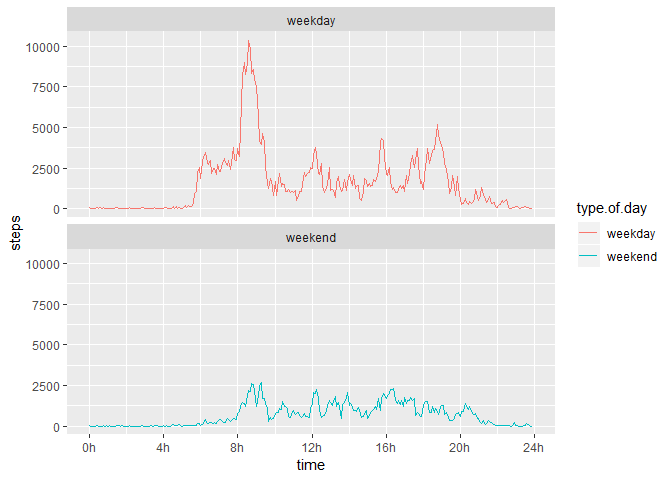
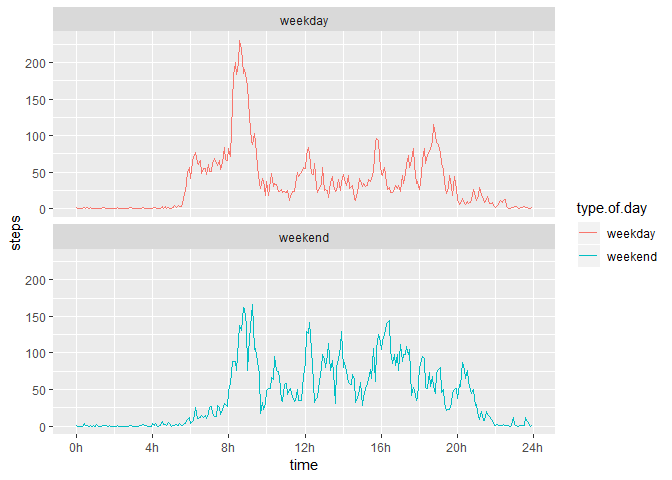
fix mean instead of sum for the activity  weekday vs weehend

diff --git a/05_Reproducible_Research/course_project_1/PA1_template.html b/05_Reproducible_Research/course_project_1/PA1_template.html
@@ -264,7 +264,7 @@ library(ggplot2)
 
 stepsByIntervalAndTypeofDay &lt;-  dataComplete %&gt;% 
                                 group_by(type.of.day,interval) %&gt;% 
-                                summarize(steps=sum(steps))
+                                summarize(steps=mean(steps))
 
 # CAUTION : &quot;interval&quot; uses a string format (&quot;hhmm&quot;) to represent time
 # e.g. 105 = 1h05min, 1215 = 12h15min, etc...
@@ -280,7 +280,7 @@ ggplot(data=stepsByIntervalAndTypeofDay, aes(x=time,y=steps) )+
     scale_x_continuous(name=&quot;time&quot;,
                        breaks=c(0,240,480,720,960,1200,1440),
                         labels=c(&quot;0h&quot;,&quot;4h&quot;,&quot;8h&quot;,&quot;12h&quot;,&quot;16h&quot;,&quot;20h&quot;,&quot;24h&quot;))</code></pre>
[2 lines of base64/hex data omitted]
 </div>
 
 

diff --git a/05_Reproducible_Research/course_project_1/PA1_template.md b/05_Reproducible_Research/course_project_1/PA1_template.md
@@ -211,7 +211,7 @@ library(ggplot2)
 
 stepsByIntervalAndTypeofDay <-  dataComplete %>% 
                                 group_by(type.of.day,interval) %>% 
-                                summarize(steps=sum(steps))
+                                summarize(steps=mean(steps))
 
 # CAUTION : "interval" uses a string format ("hhmm") to represent time
 # e.g. 105 = 1h05min, 1215 = 12h15min, etc...
